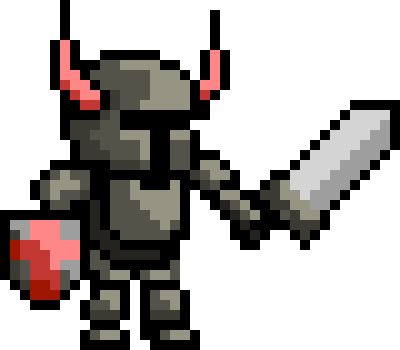
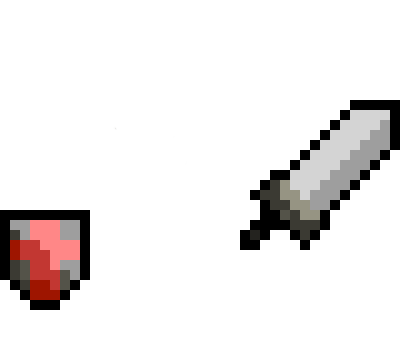
accessories is a layer

Changed region(s): [[0.06, 0.0, 0.66, 1.0]]

diff --git a/public/dynamic_thumbnail_template.html b/public/dynamic_thumbnail_template.html
@@ -34,9 +34,17 @@
         flex: 0 1 auto;
         align-self: auto;
         text-align: center;
-      }
-      img {
+        position: relative;
+        width: 400px;
+        height: 400px;
         max-width: 100%;
+      }
+      .i img {
+        max-width: 100%;
+        position: absolute;
+        top: 50%;
+        left: 50%;
+        transform: translate(-50%, -50%);
       }
       button {
         border: none;
@@ -60,29 +68,24 @@
   <body>
     <div id="c">
       <div class="i">
+        <img id="s" src="/assets/k.png" />
         <img id="p" src="/assets/kwith.png" />
-      </div>
-      <div class="i">
-        <img id="s" style="display: none" src="/assets/k.png" />
       </div>
       <button id="t">Hide Accessories</button>
       <script>
         (function () {
           var $t = document.getElementById("t"),
             $p = document.getElementById("p"),
-            $s = document.getElementById("s"),
             x = true,
             y = false,
             w = 100;
           $t.addEventListener("click", function () {
             if (x) {
-              $s.style = "";
               $p.style = "display:none";
               $t.innerText = "Show Accessories";
               x = false;
             } else {
               $p.style = "";
-              $s.style = "display:none";
               $t.innerText = "Hide Accessories";
               x = true;
             }
